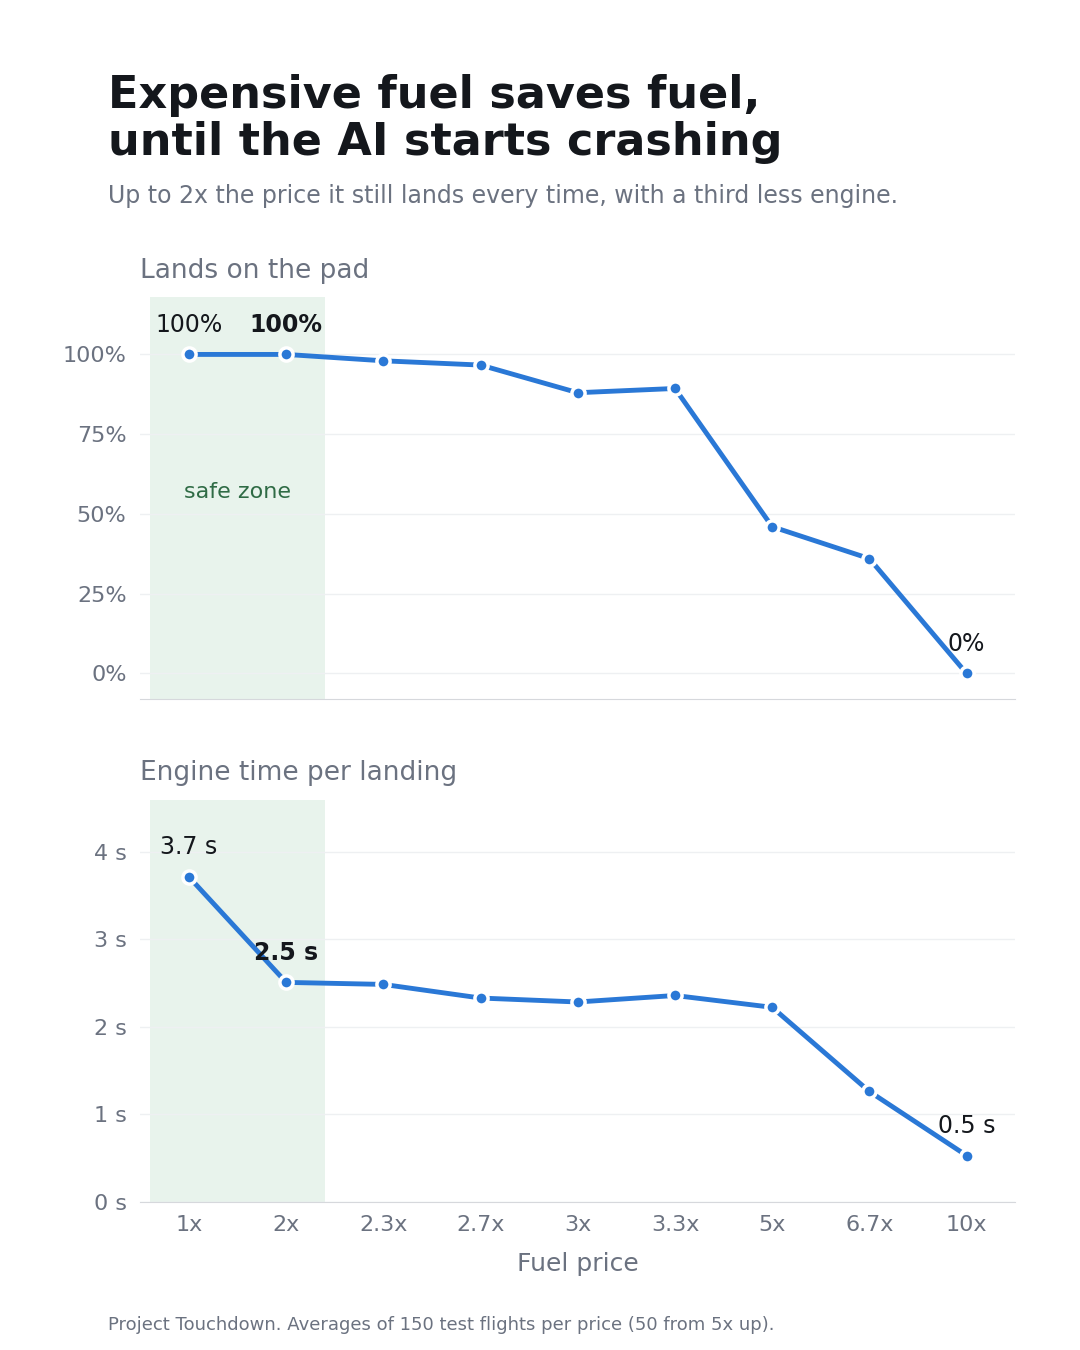
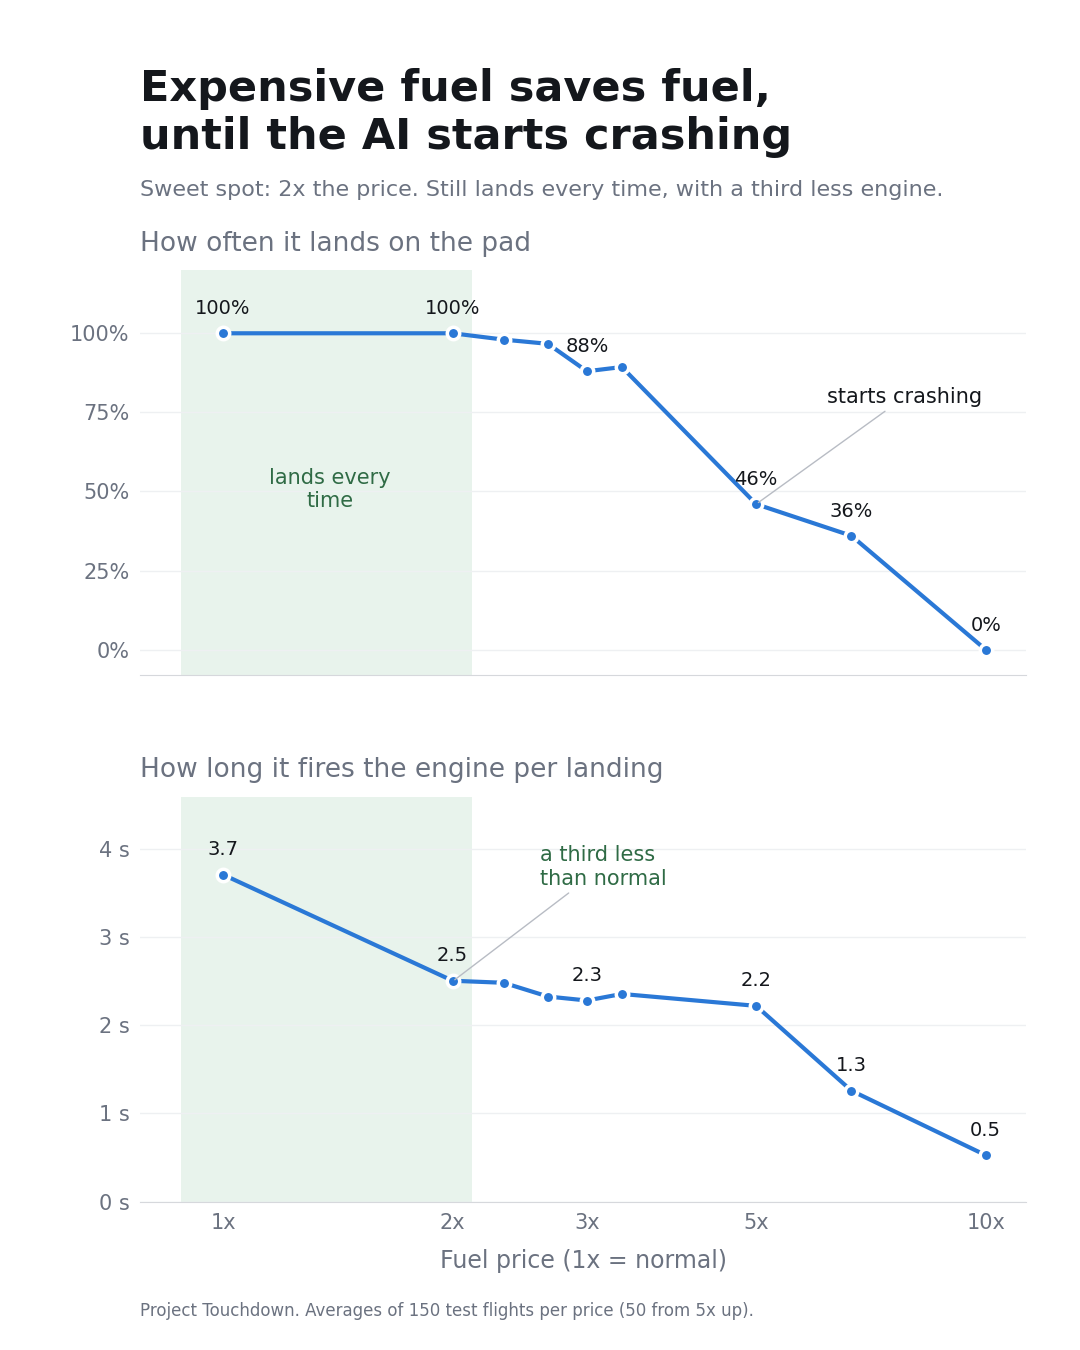
Fuel chart: to scale, every point shown, values and short notes

diff --git a/fuel_pareto.py b/fuel_pareto.py
@@ -1,6 +1,9 @@
 """The fuel result in one clean picture: raise the fuel price, and see what
 happens to how often it lands (top) and how much engine it uses (bottom).
 
+The x-axis is to scale (logarithmic, so 1x to 3x is not squeezed). Every
+tested price is a point, labelled with its measured value.
+
 Reads docs/fuel_results.csv (made by fuel_chart.py).
 Run:  python fuel_pareto.py  ->  docs/fuel_pareto.png
 """
@@ -14,53 +17,62 @@ import matplotlib.pyplot as plt
 rows = [{k: float(v) for k, v in r.items()} for r in csv.DictReader(open("docs/fuel_results.csv"))]
 prices = sorted({r["price"] for r in rows})
 avg = lambda key, p: sum(r[key] for r in rows if r["price"] == p) / sum(r["price"] == p for r in rows)
+xs = [p / 0.3 for p in prices]                      # price as a multiple of normal
 lands = [avg("lands", p) * 100 for p in prices]
 engine = [avg("engine_s", p) for p in prices]
-names = [("1x" if p == 0.3 else f"{p / 0.3:.1f}x".replace(".0x", "x")) for p in prices]
-xs = list(range(len(prices)))  # tested prices, evenly spaced
-sweet = names.index("2x")
+names = [f"{x:.1f}x".replace(".0x", "x") for x in xs]
 
-INK, INK2, SURFACE, LINE, BAND = "#14171c", "#6b7280", "#ffffff", "#2a78d6", "#e8f3ec"
+INK, INK2, SURFACE, LINE, BAND, GREEN = "#14171c", "#6b7280", "#ffffff", "#2a78d6", "#e8f3ec", "#2f6b45"
 
 fig, (top, bottom) = plt.subplots(2, 1, figsize=(10.8, 13.5), dpi=100, sharex=True,
-                                  gridspec_kw=dict(hspace=0.25))
+                                  gridspec_kw=dict(hspace=0.3))
 fig.patch.set_facecolor(SURFACE)
-fig.subplots_adjust(left=0.13, right=0.94, top=0.78, bottom=0.11)
+fig.subplots_adjust(left=0.13, right=0.95, top=0.8, bottom=0.11)
 
-for ax, ys, fmt in [(top, lands, "{:.0f}%"), (bottom, engine, "{:.1f} s")]:
+for ax, ys, fmt, dy in [(top, lands, "{:.0f}%", 6), (bottom, engine, "{:.1f}", 0.22)]:
     ax.set_facecolor(SURFACE)
     for s in ("top", "right", "left"):
         ax.spines[s].set_visible(False)
     ax.spines["bottom"].set_color("#d6d8dc")
-    ax.tick_params(colors=INK2, labelsize=16, length=0, pad=10)
+    ax.tick_params(colors=INK2, labelsize=15, length=0, pad=8)
     ax.grid(axis="y", color="#eef0f2", lw=1)
     ax.set_axisbelow(True)
-    ax.axvspan(-0.4, sweet + 0.4, color=BAND, lw=0, zorder=0)
-    ax.plot(xs, ys, color=LINE, lw=3.5, zorder=2)
-    ax.scatter(xs, ys, s=90, color=LINE, edgecolor=SURFACE, linewidth=2.5, zorder=3)
-    for i in (0, sweet, len(xs) - 1):
-        ax.text(xs[i], ys[i] + (max(ys) * 0.07), fmt.format(ys[i]), ha="center",
-                fontsize=17, color=INK, weight="bold" if i == sweet else "normal")
-    ax.set_xlim(-0.5, len(xs) - 0.5)
+    ax.set_xscale("log")
+    ax.axvspan(0.88, 2.12, color=BAND, lw=0, zorder=0)
+    ax.plot(xs, ys, color=LINE, lw=3, zorder=2)
+    ax.scatter(xs, ys, s=80, color=LINE, edgecolor=SURFACE, linewidth=2.5, zorder=3)
+    for x, y in zip(xs, ys):
+        # the middle is crowded: between 2x and 3x the dots speak for themselves
+        if round(x, 1) in (2.3, 2.7, 3.3):
+            continue
+        ax.text(x, y + dy, fmt.format(y), ha="center", fontsize=14, color=INK)
 
-top.set_ylim(-8, 118)
+top.set_ylim(-8, 120)
 top.set_yticks([0, 25, 50, 75, 100])
 top.set_yticklabels(["0%", "25%", "50%", "75%", "100%"])
+top.set_title("How often it lands on the pad", loc="left", fontsize=19, color=INK2, pad=14)
+top.text(1.38, 45, "lands every\ntime", ha="center", fontsize=15, color=GREEN)
+top.annotate("starts crashing", xy=(5, 46), xytext=(6.2, 78), fontsize=15, color=INK,
+             arrowprops=dict(arrowstyle="-", color="#b8bcc4", lw=1))
+
 bottom.set_ylim(0, 4.6)
 bottom.set_yticks([0, 1, 2, 3, 4])
 bottom.set_yticklabels(["0 s", "1 s", "2 s", "3 s", "4 s"])
-top.set_title("Lands on the pad", loc="left", fontsize=19, color=INK2, pad=14)
-bottom.set_title("Engine time per landing", loc="left", fontsize=19, color=INK2, pad=14)
-top.text(sweet / 2, 55, "safe zone", ha="center", fontsize=16, color="#2f6b45")
-bottom.set_xticks(xs)
-bottom.set_xticklabels(names)
-bottom.set_xlabel("Fuel price", fontsize=18, color=INK2, labelpad=12)
+bottom.set_title("How long it fires the engine per landing", loc="left", fontsize=19, color=INK2, pad=14)
+bottom.annotate("a third less\nthan normal", xy=(2, 2.5), xytext=(2.6, 3.6), fontsize=15, color=GREEN,
+                arrowprops=dict(arrowstyle="-", color="#b8bcc4", lw=1))
 
-fig.text(0.1, 0.92, "Expensive fuel saves fuel,", fontsize=32, color=INK, weight="bold")
-fig.text(0.1, 0.885, "until the AI starts crashing", fontsize=32, color=INK, weight="bold")
-fig.text(0.1, 0.85, "Up to 2x the price it still lands every time, with a third less engine.",
-         fontsize=17, color=INK2)
-fig.text(0.1, 0.015, "Project Touchdown. Averages of 150 test flights per price (50 from 5x up).",
-         fontsize=13, color=INK2)
+ticks = [1, 2, 3, 5, 10]
+bottom.set_xticks(ticks)
+bottom.set_xticklabels([f"{t}x" for t in ticks])
+bottom.minorticks_off()
+bottom.set_xlabel("Fuel price (1x = normal)", fontsize=17, color=INK2, labelpad=12)
+
+fig.text(0.13, 0.925, "Expensive fuel saves fuel,", fontsize=31, color=INK, weight="bold")
+fig.text(0.13, 0.89, "until the AI starts crashing", fontsize=31, color=INK, weight="bold")
+fig.text(0.13, 0.855, "Sweet spot: 2x the price. Still lands every time, with a third less engine.",
+         fontsize=16, color=INK2)
+fig.text(0.13, 0.025, "Project Touchdown. Averages of 150 test flights per price (50 from 5x up).",
+         fontsize=12, color=INK2)
 fig.savefig("docs/fuel_pareto.png", facecolor=SURFACE)
 print("docs/fuel_pareto.png")
